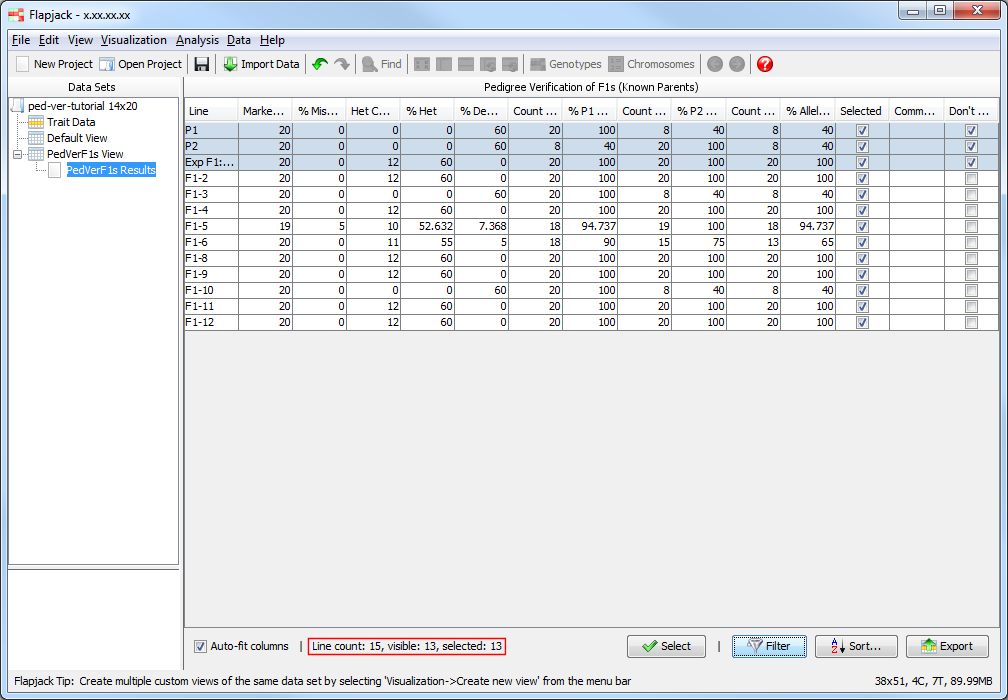
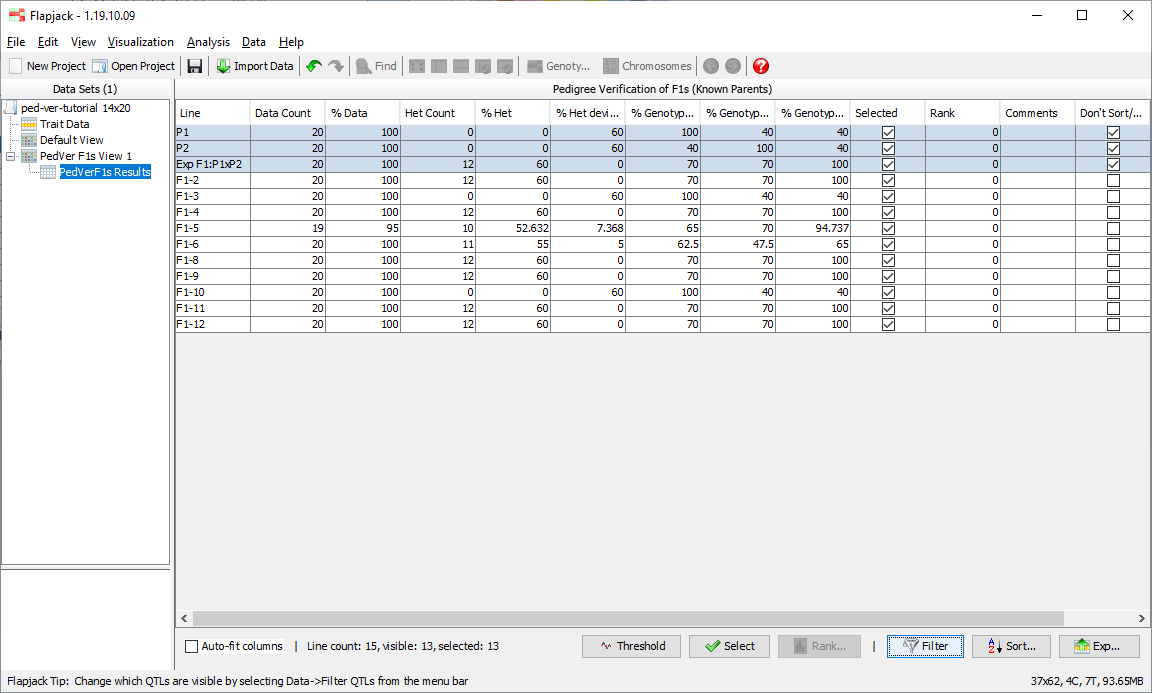
- CHG: Updates to the documentation of PedVerF1 as per gobii requirement FLAPJACK-12.

Changed region(s): [[0.0, 0.0, 1.0, 1.0]]

diff --git a/docs/pedver_f1s_known_parents_tut.rst b/docs/pedver_f1s_known_parents_tut.rst
@@ -17,7 +17,7 @@ To import data into Flapjack click the ``Import Data`` button on the toolbar. In
 
 Click the ``Advanced options`` button to open the ``Advanced Data Import Options`` dialog and ensure that the ``Duplicate all markers onto a single “All Chromosomes” chromosome for side by side viewing`` option is selected, then click OK. Finally click the ``Import map/genotypes`` button to load the data.
 
-You should now be viewing the Default View on the 1st chromosome of your dataset. This is the main type of visualization in Flapjack and comprises a graphical genotype view of the imported data. Each square represents an allele, found at the cross-section of a line and a marker, lines or varieties can be found down the left hand side of the display and markers can be found along the top (as well as a visualization of the map associated with the markers). Alleles can be either homozygous (in this dataset either an A or a B) or heterozygous, with the latter being rendered as split diagonal blocks, or A/B in the dataset.
+You should now be viewing the Default View on the 1st chromosome of your dataset. This is the main type of visualization in Flapjack and comprises a graphical genotype view of the imported data. Each square represents an allele, found at the cross-section of a line and a marker, lines or varieties can be found down the left hand side of the display and markers can be found along the top (as well as a visualization of the map associated with the markers). Alleles can be either homozygous (in this dataset either an A or a B) or heterozygous, with the latter being rendered as split diagonal blocks, or A/B in the dataset. 
 
  |002-pv-initial-default-view|
 
@@ -27,16 +27,12 @@ If you’re used to viewing heterozygous alleles as simply H instead of a diagon
 
 Select the All Chromosomes view from the Chromosome dropdown menu underneath the toolbar and use the zoom control at the bottom of the display to zoom out until you can see all of the data. You should now see a representation of all three chromosomes in the dataset.
 
- |003-pv-loaded-all-chromosomes|
-
-Note the colour of the "map" alternating between white and blue. The "map" for the ``All Chromosomes`` view is a combination of the other maps with ticks which extend above the map to show the start and end of each real map within the "map" of the ``All Chromosomes`` view. Every second map is also coloured light blue to make it easier to differentiate between maps on the ``All Chromosomes`` view.
-
 Exploring and filtering data
 ----------------------------
 
 To navigate the data select ``Edit->Navigation mode`` from the menubar, then click and drag the main display around with your mouse to examine all of your data. You can also use the scrollbars to navigate the data, as well as clicking and dragging on the overview in the bottom left. To zoom you can either use the zoom slider in the bottom left of the display, double click on the main display to zoom in, or use ctrl /cmd and the mouse’s scroll-wheel to zoom in and out.
 
-Before you run a marker assisted backcrossing analysis, you may want to filter out markers with lots of missing data, or monomorphic markers. Select ``Edit->Filter markers->Missing markers`` to open the ``Filter Missing Markers`` dialog. Choose the percentage of missing data in a marker required to filter out a marker, then use the ``Filter`` button to perform the operation. You should see a message detailing the number of markers that were filtered out of the dataset as part of the operation.
+Before you run an analysis, you may want to filter out markers with lots of missing data, or monomorphic markers. Select ``Edit->Filter markers->Missing markers`` to open the ``Filter Missing Markers`` dialog. Choose the percentage of missing data in a marker required to filter out a marker, then use the ``Filter`` button to perform the operation. You should see a message detailing the number of markers that were filtered out of the dataset as part of the operation.
 
 .. note::
  In the case of the sample dataset none will be filtered out as no markers have a high percentage of missing data in the simulated dataset.
@@ -57,7 +53,7 @@ Click ``Run`` and Flapjack will run the analysis.
 Viewing the analysis results
 ----------------------------
 
-Once the analysis has completed you should see a table of results. The results table will contain the lines that you included in the analysis, for each line it will have a marker count, percentage of missing alleles, count of heterozygous alleles, percentage of heterozygous alleles, percentage deviation from the expected F1, count of match to parent 1 alleles, percentage match to parent 1 alleles, count of match to parent 2 alleles, percentage match to parent 2 alleles, count of allele match to the expected F1, percentage of allele match to the expected F1, as well as a selected state, and comment. The final column - Don't Sort / Filter - allows you to mark lines that you don't want table sorts and filters to apply to. By default, Flapjack sets both of the parents, and the expected F1 to neither sort, nor filter. This has the effect of keeping them in the display and always at the top of the table of data.
+Once the analysis has completed you should see a table of results. The results table will contain the lines that you included in the analysis, for each line it will have a data count, percentage of data, count of heterozygous alleles, percentage of heterozygous alleles, percentage heterozygous deviation from the expected F1, percentage match to parent 1 alleles, percentage match to parent 2 alleles, percentage genotype match to the expected F1, as well as a selected state, rank and comments. The final column - Don't Sort / Filter - allows you to mark lines that you don't want table sorts and filters to apply to. By default, Flapjack sets both of the parents, and the expected F1 to neither sort, nor filter. This has the effect of keeping them in the display and always at the top of the table of data.
 
  |005-pv-analysis-results|
 
@@ -68,7 +64,7 @@ You should see that not only has Flapjack generated this ``PedVerF1s Results`` v
 Filtering the results
 ---------------------
 
-Click on ``PedVerF1s Results`` to return to the results view. Next click ``Filter->Filter`` to open the ``Filter Table`` dialog. You should see a table with a list of columns from the table on which you can filter. Click on the filter column for the row called ``% Missing`` and select ``Less than`` from the drop down list. Next enter a value of ``50`` in the adjacent ``Value`` column, then click ``Filter``. 
+Click on ``PedVerF1s Results`` to return to the results view. Next click ``Filter->Filter`` to open the ``Filter Table`` dialog. You should see a table with a list of columns from the table on which you can filter. Click on the filter column for the row called ``% Data`` and select ``Greater than`` from the drop down list. Next enter a value of ``50`` in the adjacent ``Value`` column, then click ``Filter``. 
 
  |007-pv-filter-dialog|
 
@@ -76,14 +72,14 @@ You should see that the results table has filtered out lines which didn't match 
 
  |008-pv-filtered-results|
 
-Click on ``MABC View 1`` if you want to see what the lines which have been kept look like visually.
+Click on ``PedVerF1s View 1`` if you want to see what the lines which have been kept look like visually.
 
  |009-pv-filtered-genotypes|
 
 Sorting the results
 -------------------
 
-Return to the results table and select ``Sort`` to use the ``Advanced Sort`` dialog. Click ``Add sort level`` to add another entry to the table. Click the first entry in the ``Column`` column and select ``% Allele Match to Expected`` from the drop down list that appears. For the next entry select ``% P" Contained``. For the last entry change its ``Order`` to be ``Smallest to largest``. Click ``Sort`` to sort the data. You should see that the data in the table and in the genotypes view has been sorted according to your criteria.
+Return to the results table and select ``Sort`` to use the ``Advanced Sort`` dialog. Click ``Add sort level`` to add another entry to the table. Click the first entry in the ``Column`` column and select ``% Genotype Match to Expected F1`` from the drop down list that appears. For the next entry select ``% Genotype Match to P2``. For the last entry change its ``Order`` to be ``Smallest to largest``. Click ``Sort`` to sort the data. You should see that the data in the table and in the genotypes view has been sorted according to your criteria.
 
  |010-pv-sorted-results|
 
@@ -92,7 +88,7 @@ Return to the results table and select ``Sort`` to use the ``Advanced Sort`` dia
 Selecting within results
 ------------------------
 
-Click ``Select->Auto select`` to open the ``Auto Select Lines`` dialog. Fill the dialog in as with the ``Filter`` dialog, with values for ``% Deviation from Expected`` of ``Less than`` ``10``. Click ``Select`` to apply the selection criteria to the data in the results table. You may see a dialog informing you that Flapjack has switched to line mode. Click Ok to dismiss this. Then view the results of your selection in both the results and genotype views. You should note that there are now only 15 lines selected. Deselected lines are de-emphasised in the genotype view in Flapjack by ligthening their colour. 
+Click ``Select->Auto select`` to open the ``Auto Select Lines`` dialog. Fill the dialog in as with the ``Filter`` dialog, with values for ``% Heterozygous Deviation from Expected F1`` of ``Less than`` ``10``. Click ``Select`` to apply the selection criteria to the data in the results table. You may see a dialog informing you that Flapjack has switched to line mode. Click Ok to dismiss this. Then view the results of your selection in both the results and genotype views. You should note that there are now only 15 lines selected. Deselected lines are de-emphasised in the genotype view in Flapjack by ligthening their colour. 
 
  |012-pv-auto-select-lines|
 
@@ -112,13 +108,13 @@ You can view the contents of the file in any text editor.
 Viewing results in the genotype view
 ------------------------------------
 
-Return to the genotype view of the data (``PedVerF1s View``) and zoom in until you can comfortably read the line names which are just to the left of the genotype visualization. Right-click on the list of line names and select ``Show table results`` from the menu to open the ``Columns To Display`` dialog. This dialog allows you to select columns of data from the results table to view side by side with the genotype data. This can be good for a final visual validation of what you're seeing from the analysis results. Select ``% P1 Contained``, ``% P2 Contained``, and ``% Allele Match to Expedted`` by clicking the corresponding checkboxes in the dialog, then click ``OK``.
+Return to the genotype view of the data (``PedVerF1s View``) and zoom in until you can comfortably read the line names which are just to the left of the genotype visualization. Right-click on the list of line names and select ``Show table results`` from the menu to open the ``Columns To Display`` dialog. This dialog allows you to select columns of data from the results table to view side by side with the genotype data. This can be good for a final visual validation of what you're seeing from the analysis results. Select ``% Genotype Match to P1``, ``% Genotype Match to P2``, and ``% Genotype Match to Expected F1`` by clicking the corresponding checkboxes in the dialog, then click ``OK``.
 
  |015-pv-columns-to-display|
 
  |016-result-linked-to-genotypes|
 
-You should see that there are three extra columns of data between the lines names and the genotype display. These are the four columns you selected in the ``Columns To Display`` dialog and represent the data found for those columns for the lines in ``PedVerF1s Results`` view. Mouseover the columns to see tooltips with the column name and value for the line under the mouse, this information is also displayed in the status panel at the bottom of the display. Here we can see that one of the lines we've deselected has a value of % P1 Contained of 100%, but only 40% for % P2 Contained and % Allele Match to Expected. This suggests that the line under the mouse is a self of parent 1.
+You should see that there are three extra columns of data between the lines names and the genotype display. These are the four columns you selected in the ``Columns To Display`` dialog and represent the data found for those columns for the lines in ``PedVerF1s Results`` view. Mouseover the columns to see tooltips with the column name and value for the line under the mouse, this information is also displayed in the status panel at the bottom of the display. Here we can see that one of the lines we've deselected has a value of % Genotype Match to P1 of 100%, but only 40% for % Genotype Match to P2 and % Genotype Match to Expected F1. This suggests that the line under the mouse is a self of parent 1.
 
 Conclusion
 ----------

diff --git a/docs/pedver_f1s_known_parents.rst b/docs/pedver_f1s_known_parents.rst
@@ -14,16 +14,24 @@ Options
 
 If you choose to simulate an F1, Flapjack will generate an expected F1 line from the two parental lines you selected in the dialog. To do this Flapjack compares the alleles of the two parental lines to determine the alleles for the expected F1. For any allele where a parent has missing data, or a heterozygous allele the allele in the expected F1 is left as missing data. For other alleles if parent 1 has A and parent 2 has A, the expected F1 gets A as the allele for that marker. If parent 1 has A and parent 2 has T the expected F1 get A/T as the allele at that marker.
 
-* ``% allele match to expected`` - the simplest way to understand whether an F1 is a true cross from the expected parents is first to simulate the expected F1 alleles based on those parents, and then compare the expected F1 alleles to the putative F1 samples. A 100% match indicates the putative F1 sample is a true F1 from the expected parents.  Note, for a match to occur, the putative F1 sample has to EXACTLY match the allele pattern of the simulated F1 ie a match occurs if the putative F1 sample is A/A and the simulated F1 is A/A, but NOT if the putative F1 sample has A/A and the simulated F1 is A/T.
+* ``Data count`` - the number of markers with non-missing values.
+
+* ``% Data`` - the number of markers with non-missing values as a percent of the total markers for a sample.
+
+* ``Het count`` - the number of markers with heteozygous genotypes (i.e. alleles that differ) for a sample.
+
+* ``% Het`` - the number of markers with heteozygous genotypes as a percent of the total markers for a sample.
+
+* ``% genotype match to expected F1`` - matching gneotypes (i.e. both alleles need to match) between the sampled F1 line and the simulated F1 as a percentage of non-missing data in both the F1 line and the simulated F1, across all markers for a sample. e.g. Sampled F1 = A/T C/C and Simulated F1 = A/T C/T is a 50% match.
 
 .. note::
  Expected F1 alleles can only be simulated if both parents have homozygous alleles. If either parent has a heterozygous call or missing data for a marker, then the expected F1 allele data cannot be simulated and will have a missing value. 
 
-* ``Marker Count and % Missing`` - since for many F1 tests a small number of markers are used, and any small amount of marker failure can result in misleading analyses results, statistics are first provided for ``Marker Count`` and ``% Missing``. Results can therefore first be filtered by ``Marker Count`` or ``% Missing`` to eliminate potentially skewed results.
+* ``Data Count and % Data`` - since for many F1 tests a small number of markers are used, and any small amount of marker failure can result in misleading analyses results, statistics are first provided for ``Data Count`` and ``% Data``. Results can therefore first be filtered by ``Data Count`` or ``% Data`` to eliminate potentially skewed results.
 
 * ``% het and % Deviation from Expected`` - an F1 made from a cross between two inbred lines will have elevated % heterozygosity compared to parents. Therefore, the two statistics provided; % of markers that are heterozygous (% het), and deviation from the expected level of heterozygosity compared to the simulated F1 (% Deviation from Expected), will indicate whether a cross has been successfully made. In the case that a putative F1 sample has low % hets and high deviation from expected, then the sample is most likely an inbred line and not a true cross.
 
-* ``% P1 Contained and % P2 Contained`` - to determine whether each parent has contributed alleles to the putative F1 sample, the analysis provides ``% contained`` results. If a single parent is 100% contained in the F1 this means that 100% of the marker alleles from the parent are contributing to the F1 and is a true parent. A lower % contained results can mean genotyping error or that the parent was not involved in the cross. In the case that the parent has a heterozygous call (or missing data) for a marker, then that marker datapoint is not used in the % contained analysis. 
+* ``% allele match to parent 1 / parent 2`` - alleles matching betwen the sampled F! line and the sampled parent line, as a percentage of non-missing data in both the F1 line and parent line, across all markers for a sample. e.g. P1 = A/A C/C and F1 = A/T N/N is a 50% match.
 
 Understanding the statistics
 ----------------------------
@@ -31,66 +39,54 @@ Understanding the statistics
 These 3 sets of analyses can help determine whether your putative F1 sample is a true F1 from a cross of the expected parents. 
 
 .. warning:: 
- No attempt has been made to define exact analysis values that result in the likely scenarios as this will depend on the level of genotyping error in your experiment as well as the shared alleles, or genetic similarity, between the parents being crossed as well as the alternate inbreds that could be resulting in seed mix ups or outcrossing.
+The exact thresholds for determining whether a sampled F1 is a true F1 of the designated parents, or else the result of outcrossing or selfing, have not been defined here as the thresholds to use can depend on many factors including the level of genotyping error in your experiment, or the level of genetic similarity between parents and any alternate possible parents.
 
 
 Below are various combinations of values for the statistics.
 
 **A true F1 from the expected parents:**
 
-+----------------------------+-----------------+
-| % Allele match to expected | **High**        |
-+----------------------------+-----------------+
-| % het                      | **As expected** |
-+----------------------------+-----------------+
-| % Deviation from expected  | **Low**         |
-+----------------------------+-----------------+
-| % contained parent 1       | **High**        |
-+----------------------------+-----------------+
-| % contained parent 2       | **High**        |
-+----------------------------+-----------------+
++----------------------------------------------------+-----------------+
+| % Heterozygous deviation from expected F1 parent 1 | **Low**         |
++----------------------------------------------------+-----------------+
+| % Allele match to parent 1 / parent 2              | **Medium**      |
++----------------------------------------------------+-----------------+
+| % Genotype match to expected F1                    | **High**        |
++----------------------------------------------------+-----------------+
 
-**A self of parent 1, or sample is parent 1 (seed mix-up):**
+**A self a of parent, or sample is the parent (seed mix-up):**
 
-+----------------------------+-----------------+
-| % Allele match to expected | **Low**         |
-+----------------------------+-----------------+
-| % het                      | **Low**         |
-+----------------------------+-----------------+
-| % Deviation from expected  | **High**        |
-+----------------------------+-----------------+
-| % contained parent 1       | **High**        |
-+----------------------------+-----------------+
-| % contained parent 2       | **Low**         |
-+----------------------------+-----------------+
++----------------------------------------------------+-----------------+
+| % Heterozygous deviation from expected F1 parent 1 | **High**        |
++----------------------------------------------------+-----------------+
+| % Allele match to parent 1 / parent 2              | **High**        |
++----------------------------------------------------+-----------------+
+| % Genotype match to expected F1                    | **Low**         |
++----------------------------------------------------+-----------------+
 
 **An F1 cross between parent 1 and an unknown inbred:**
 
-+----------------------------+-------------------------------+
-| % Allele match to expected | **Low**                       |
-+----------------------------+-------------------------------+
-| % het                      | **Approximately as expected** |
-+----------------------------+-------------------------------+
-| % Deviation from expected  | **Medium-high**               |
-+----------------------------+-------------------------------+
-| % contained parent 1       | **High**                      |
-+----------------------------+-------------------------------+
-| % contained parent 2       | **Low**                       |
-+----------------------------+-------------------------------+
++----------------------------------------------------+-----------------+
+| % Heterozygous deviation from expected F1 parent 1 | **Low**         |
++----------------------------------------------------+-----------------+
+| % Allele match to parent 1                         | **High**        |
++----------------------------------------------------+-----------------+
+| % Allele match to parent 2                         | **Low**         |
++----------------------------------------------------+-----------------+
+| % Genotype match to expected F1                    | **Low**         |
++----------------------------------------------------+-----------------+
 
 **An F1 cross between two unknown inbreds:**
 
-+----------------------------+-------------------------------+
-| % Allele match to expected | **Low**                       |
-+----------------------------+-------------------------------+
-| % het                      | **Approximately as expected** |
-+----------------------------+-------------------------------+
-| % Deviation from expected  | **Medium-high**               |
-+----------------------------+-------------------------------+
-| % contained parent 1       | **Low**                       |
-+----------------------------+-------------------------------+
-| % contained parent 2       | **Low**                       |
-+----------------------------+-------------------------------+
++----------------------------------------------------+-----------------+
+| % Heterozygous deviation from expected F1 parent 1 | **Low**         |
++----------------------------------------------------+-----------------+
+| % Allele match to parent 1                         | **Low**         |
++----------------------------------------------------+-----------------+
+| % Allele match to parent 2                         | **Low**         |
++----------------------------------------------------+-----------------+
+| % Genotype match to expected F1                    | **Low**         |
++----------------------------------------------------+-----------------+
 
 
 
